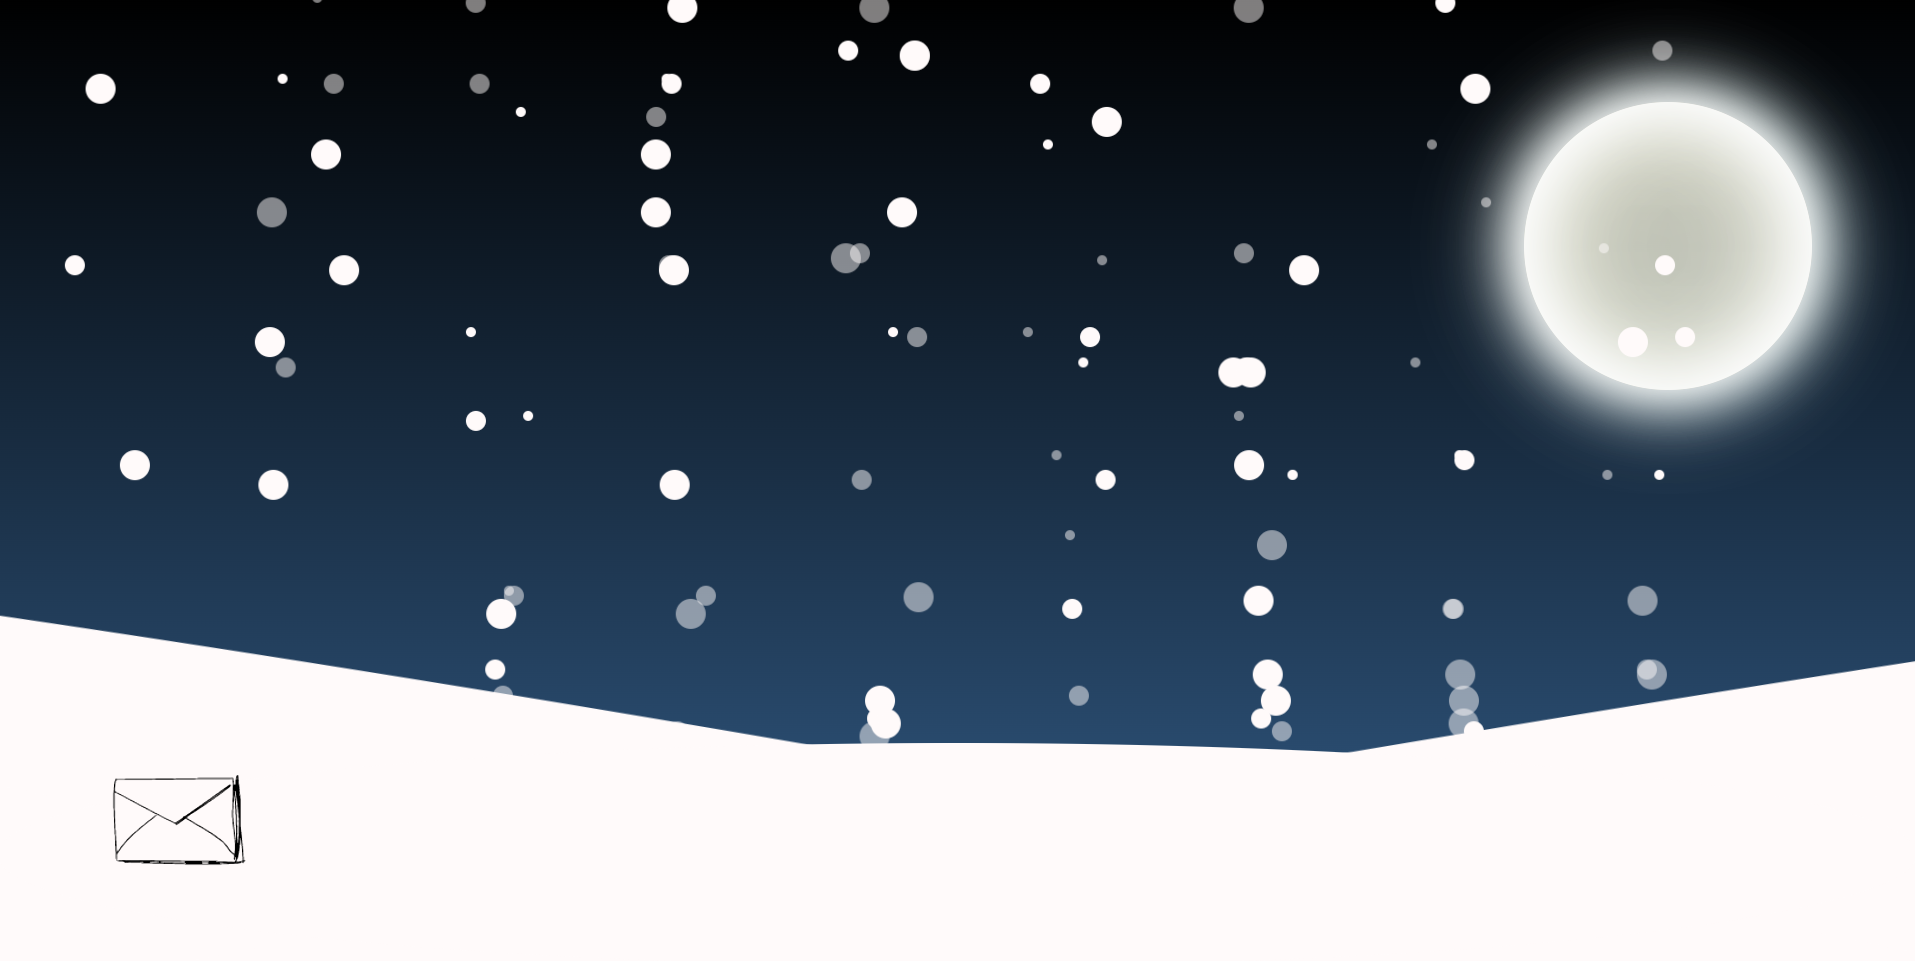
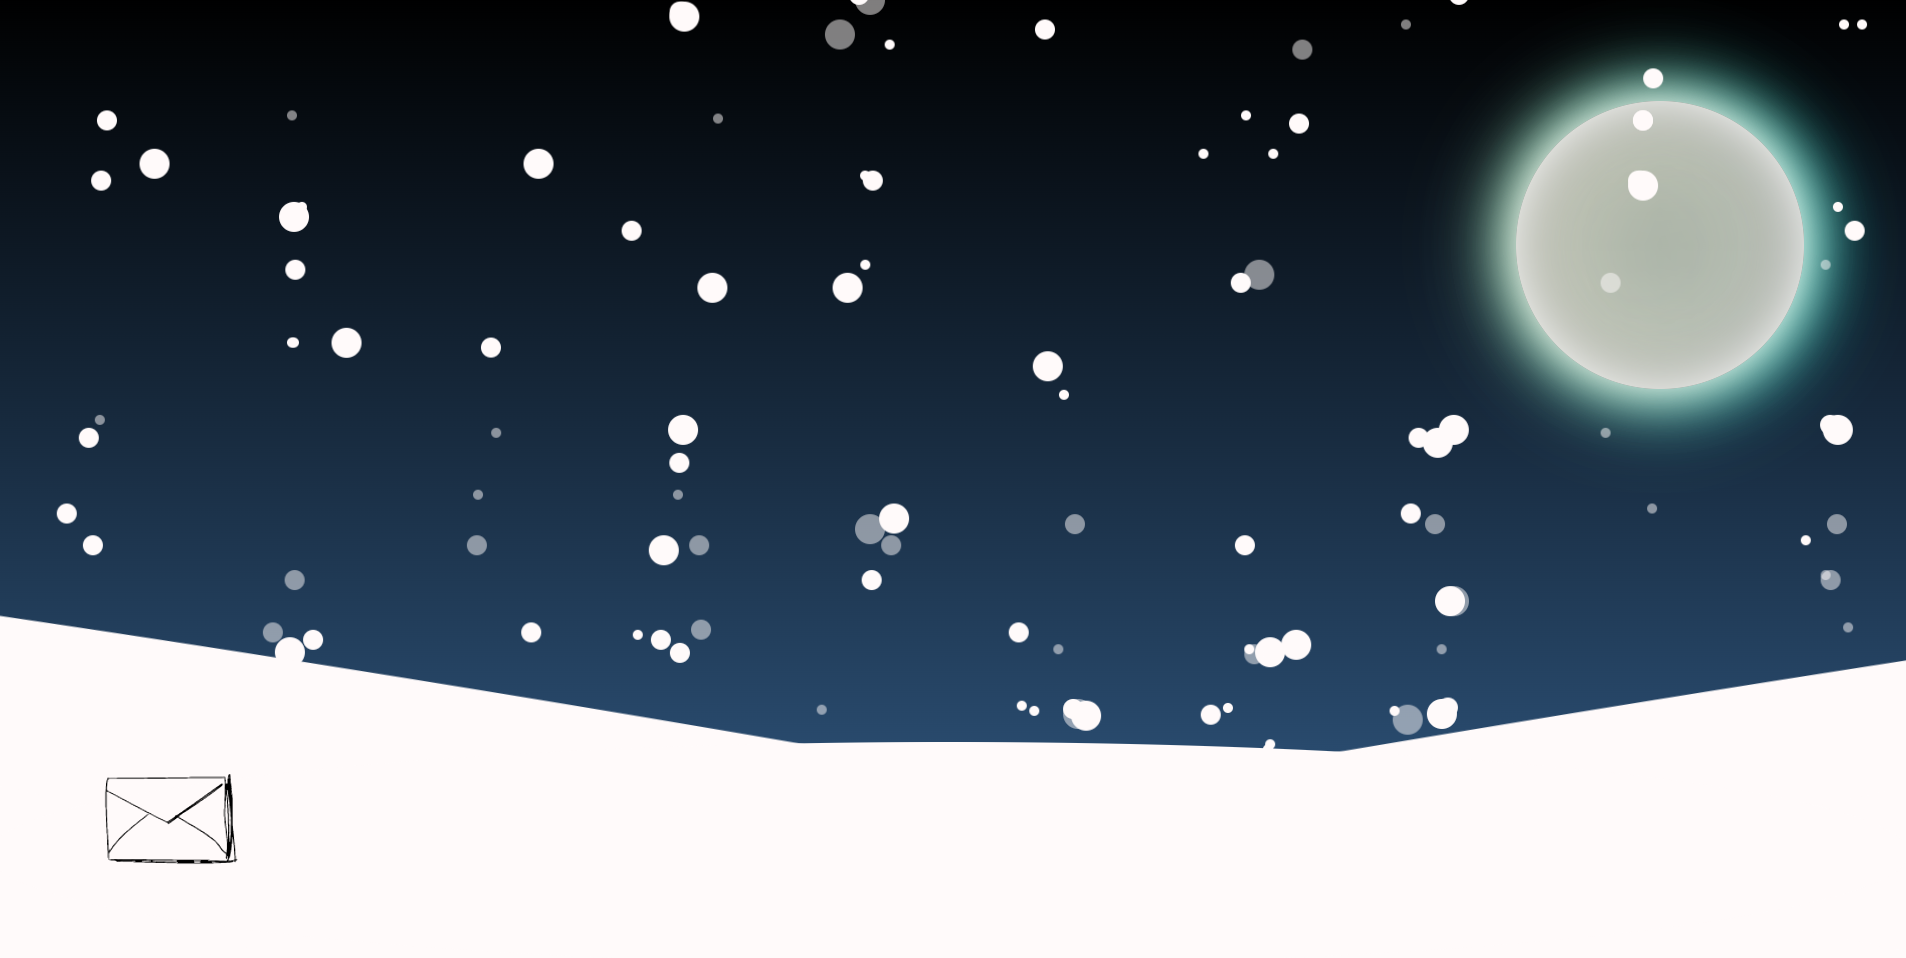
Updated README

diff --git a/assets/css/style.css b/assets/css/style.css
@@ -121,7 +121,7 @@ main {
   color: red;
   text-shadow: 0 0 10px #ffffff;
   min-width: 2vw;
-  animation: fadeIn 1s, glow 7s infinite;
+  animation: fadeIn 1s, glow 5s infinite;
 }
 
 @keyframes glow {
@@ -151,6 +151,12 @@ main {
   position: relative;
 }
 
+@media (max-width: 1025px) {
+  #snow > div:nth-child(even) {
+    opacity: 0;
+  }
+}
+
 .snowball {
   position: absolute;
   top: -10vh;
@@ -176,19 +182,31 @@ main {
   height: 30px;
 }
 
-.slow {
+.slowest {
   animation: snowFallAnimation1 10s;
   animation-iteration-count: infinite;
 }
 
-.normal {
+.slow {
   animation: snowFallAnimation2 10s;
+  animation-iteration-count: infinite;
+  animation-delay: 1s;
+}
+
+.normal {
+  animation: snowFallAnimation3 10s;
   animation-iteration-count: infinite;
   animation-delay: 2s;
 }
 
 .fast {
-  animation: snowFallAnimation3 10s;
+  animation: snowFallAnimation4 10s;
+  animation-iteration-count: infinite;
+  animation-delay: 3s;
+}
+
+.fastest {
+  animation: snowFallAnimation5 10s;
   animation-iteration-count: infinite;
   animation-delay: 4s;
 }
@@ -208,7 +226,7 @@ main {
     transform: translateY(0vh);
   }
 
-  80% {
+  90% {
     transform: translateY(100vh);
   }
 
@@ -222,7 +240,7 @@ main {
     transform: translateY(0vh);
   }
 
-  60% {
+  80% {
     transform: translateY(100vh);
   }
   100% {
@@ -230,6 +248,31 @@ main {
   }
 }
 
+@keyframes snowFallAnimation4 {
+  0% {
+    transform: translateY(0vh);
+  }
+
+  70% {
+    transform: translateY(100vh);
+  }
+  100% {
+    transform: translateY(100vh);
+  }
+}
+
+@keyframes snowFallAnimation5 {
+  0% {
+    transform: translateY(0vh);
+  }
+
+  60% {
+    transform: translateY(100vh);
+  }
+  100% {
+    transform: translateY(100vh);
+  }
+}
 .one {
   transform: translateX(5vw);
 }

diff --git a/assets/js/script.js b/assets/js/script.js
@@ -17,8 +17,8 @@ var snowStartingPositionArr = [
   "nine",
   "ten",
 ];
-var snowOpacityArr = ["lessOpacity", "moreOpacity"];
-var snowFallSpeedArr = ["slow", "normal", "fast"];
+var snowOpacityArr = ["lessOpacity", "moreOpacity", "moreOpacity"];
+var snowFallSpeedArr = ["slowest", "slow", "normal", "fast", "fastest"];
 var snowSwayArr = ["lightLeft", "lightRight", "heavyLeft", "heavyRight"];
 var envelopStatusOpened = true;
 var happyHolidays = [
@@ -88,11 +88,11 @@ function letItSnow() {
     let snowSize = snowSizeArr[Math.floor(Math.random() * 3)];
     let snowStartingPosition =
       snowStartingPositionArr[Math.floor(Math.random() * 10)];
-    let snowOpacity = snowOpacityArr[Math.floor(Math.random() * 2)];
+    let snowOpacity = snowOpacityArr[Math.floor(Math.random() * 3)];
     let newSnowballFallDiv = document.createElement("div");
     let newSnowballSwayDiv = document.createElement("div");
     newSnowballFallDiv.className =
-      snowFallSpeedArr[Math.floor(Math.random() * 3)];
+      snowFallSpeedArr[Math.floor(Math.random() * 5)];
     newSnowballSwayDiv.className = snowSwayArr[Math.floor(Math.random() * 4)];
     let newSnowball = document.createElement("div");
     newSnowball.className =
